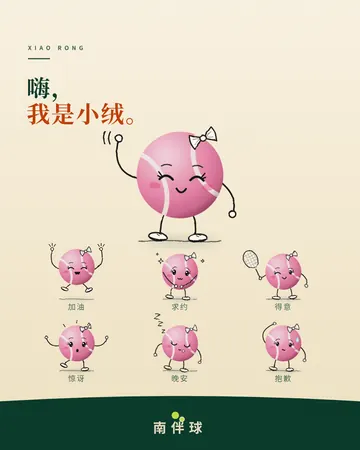
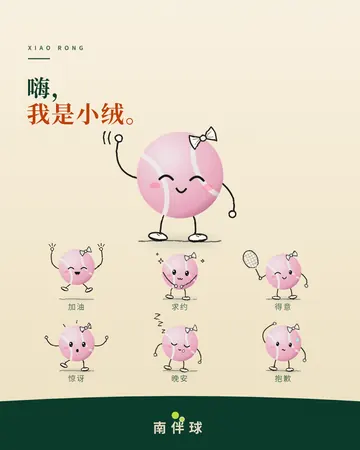
小毛小绒定稿：统一用 v3（figure3），去掉眉毛 / 睫毛 / 头顶毛，小绒嫩粉；78–81、84 重出
Claude-Session: https://claude.ai/code/session_01Vg2RCbjYppFezKGzdwzEXB

diff --git a/marketing/posters/p84_mao_rong_sunset.py b/marketing/posters/p84_mao_rong_sunset.py
@@ -1,17 +1,15 @@
 from lib import *
-from mao3 import pen, DOWN_L, DOWN_R, SH_L, SH_R, PEN, PAPER
-from mao4 import figure4, GROUND, K_ARM
+from mao3 import figure3, DOWN_L, DOWN_R
 
-
-def raw(sh, t):
-    return (sh[0] + (t[0] - sh[0]) / K_ARM, sh[1] + (t[1] - sh[1]) / K_ARM)
 
 META = dict(
     id=84, slug='mao-rong-sunset', title='打完球，看会儿天', lines=['打完球，', '看会儿天。'],
     style=['插画', '角色', '意境', '暖色'], tone='暖色', demo=False,
-    concept='36 号范式：角色放进有光的场景。傍晚的草坡上，小毛搭着小绒的肩，一起看日落；渐变天空 + 光芒 + 三层平涂山丘，脸极简',
+    concept='36 号范式：角色放进有光的场景。傍晚的草坡上，小毛和小绒牵着手一起看日落；渐变天空 + 光芒 + 三层平涂山丘，立体球 + 黑色细线手脚',
     use='傍晚场 / 打完球的小红书配图；小毛小绒首张场景海报',
 )
+
+
 
 
 def svg():
@@ -21,16 +19,15 @@ def svg():
                    for a in [math.pi + i * math.pi / 15 for i in range(16)])
     birds = ''.join(f'<path transform="translate({x} {y}) scale({s})" d="M-14 0 Q-7 -9 0 0 Q7 -9 14 0" fill="none" stroke="#0B3B2A" stroke-width="3" stroke-linecap="round"/>'
                     for x, y, s in [(830, 560, 1.1), (910, 520, .8), (190, 640, .8)])
-    rm, rr = 152, 140
-    gy = 1112
+    rm, rr = 150, 138
+    gy = 1100
     xm, xr = 372, 716
-    cym = gy - GROUND * rm
-    cyr = gy - GROUND * rr
-    mx, my = (xm + xr) / 2 + 4, gy - 128
+    cym, cyr = gy - 1.53 * rm, gy - 1.53 * rr
+    mx, my = (xm + xr) / 2, gy - 150
     hm = ((mx - 5 - xm) / rm, (my - cym) / rm)
     hr = ((mx + 5 - xr) / rr, (my - cyr) / rr)
-    a1 = figure4('m', xm, 0, rm, dict(L=DOWN_L, R=((1.3, .55), raw(SH_R, hm)), legs='stand'), 'happy', gy=gy, ball_style='soft')
-    a2 = figure4('r', xr, 0, rr, dict(L=((-1.3, .55), raw(SH_L, hr)), R=DOWN_R, legs='stand'), 'smile', char='rong', gy=gy, look=1, ball_style='soft')
+    a1 = figure3('m', xm, 0, rm, dict(L=DOWN_L, R=((1.32, .55), hm), legs='stand'), 'happy', gy=gy)
+    a2 = figure3('r', xr, 0, rr, dict(L=((-1.32, .55), hr), R=DOWN_R, legs='stand'), 'happy', gy=gy, char='rong', look=1)
     arm = ''
     body = f'''
 <defs>

diff --git a/marketing/posters/p80_mao_rong.py b/marketing/posters/p80_mao_rong.py
@@ -5,7 +5,7 @@ from mao3 import figure3, pen, hand3, PEN, DOWN_L, DOWN_R
 META = dict(
     id=80, slug='mao-rong', title='小毛和小绒，好朋友', lines=['小毛和小绒，', '好朋友。'],
     style=['插画', '角色', '拟人', '极简'], tone='浅色', demo=False,
-    concept='角色设定：男生小毛（头顶一小撮毛，嘴硬心软）和女生小绒（一颗粉色的球，头顶奶油白小蝴蝶结、睫毛，话多守时）。主图两人击掌，笔线标出各自的记号；下面三个合照姿势：搭肩 / 一起招手 / 晚安',
+    concept='角色设定：男生小毛（嘴硬心软）和女生小绒（一颗粉色的球，头顶奶油白小蝴蝶结，话多守时）。主图两人击掌，笔线标出各自的记号；下面三个合照姿势：搭肩 / 一起招手 / 晚安',
     use='客服 / 运营形象的双人设定；做“约球搭子”“带朋友一起来”的物料',
 )
 
@@ -28,8 +28,7 @@ def svg():
     sparks = ''.join(pen(f'M{tx + math.cos(math.radians(a))*30:.1f} {ty + math.sin(math.radians(a))*30:.1f} L{tx + math.cos(math.radians(a))*52:.1f} {ty + math.sin(math.radians(a))*52:.1f}', 3)
                      for a in (-150, -120, -90, -60, -30))
     # 笔线标注
-    note = (pen('M214 440 Q280 454 338 434', 2.6) + pen('M324 426 L339 434 L325 443', 2.6)
-            + pen('M876 458 Q846 470 806 482', 2.6) + pen('M820 470 L805 482 L822 488', 2.6))
+    note = (pen('M876 458 Q846 470 806 482', 2.6) + pen('M820 470 L805 482 L822 488', 2.6))
     # 三个合照
     r2, gy2 = 40, 1075
     duo = ''
@@ -65,7 +64,6 @@ def svg():
 {figure3('m', xm, 0, rm, mao_pose, 'happy', gy=gy)}
 {figure3('r', xr, 0, rr, rong_pose, 'happy', gy=gy, char='rong')}
 <g filter="url(#rough2)">{sparks}{note}</g>
-{label(96, 438, '一小撮毛', size=24)}
 {label(884, 452, '小蝴蝶结', size=24)}
 <text x="{xm}" y="{gy+60}" text-anchor="middle" font-family="{SERIF}" font-weight="900" font-size="38" fill="#0B3B2A">小毛</text>
 <text x="{xr}" y="{gy+60}" text-anchor="middle" font-family="{SERIF}" font-weight="900" font-size="38" fill="#0B3B2A">小绒</text>

diff --git a/marketing/mao3.py b/marketing/mao3.py
@@ -96,7 +96,7 @@ def ball_c(id, cx, cy, r, hi, mid, lo, seam='#FFF6F0', rim='#3b0d1f', rot=-22):
 </defs>'''
 
 
-PINK = dict(hi='#FFD3E0', mid='#F68FB4', lo='#C2517A')
+PINK = dict(hi='#FFEEF4', mid='#FFC6D8', lo='#F29DBA', seam='#FFFDF6', rim='#7a2a4a')
 
 
 def brows3(cx, cy, s, mood):
@@ -130,10 +130,7 @@ def star4(x, y, k, w):
 def face3(cx, cy, s, mood='smile', look=0, char='mao'):
     """脸 + 眉毛；小绒加睫毛、玫瑰色腮红；睡着了鼻子吹个泡泡。cx,cy 为脸中心。"""
     pink = char == 'rong'
-    out = face2(cx, cy, s, mood, look, ink=PEN, blush_c=('#E23F6B' if pink else '#E8643C'), blush_op=(.40 if pink else .35))
-    out += brows3(cx, cy, s, mood)
-    if pink:
-        out += lashes3(cx, cy, s)
+    out = face2(cx, cy, s, mood, look, ink=PEN, blush_c=('#FF7FA3' if pink else '#E8643C'), blush_op=(.50 if pink else .35))
     if mood == 'sleep':
         out += sleepbubble(cx, cy, s)
     return out
@@ -224,7 +221,7 @@ def figure3(id, cx, cy, r, pose='wave', mood='happy', tilt=None, lift=None, look
         hair = f'<g filter="url(#rough2)">{bow3(cx, cy, r, w)}</g>'
         body = ball_c(id, cx, cy, r, **PINK)
     else:
-        hair = f'<g filter="url(#rough2)">{tuft3(cx, cy, r, w)}</g>'
+        hair = ''
         body = ball(id, cx, cy, r)
     return (soft_sh + gnd + f'<g transform="rotate({tilt} {cx} {cy})">{limbs}{body}'
             f'{face3(*fc, s, mood, look, char)}{hair}{front}{marks}</g>')

diff --git a/marketing/posters/p81_rong_pen.py b/marketing/posters/p81_rong_pen.py
@@ -4,7 +4,7 @@ from mao3 import figure3
 META = dict(
     id=81, slug='rong-pen', title='嗨，我是小绒', lines=['嗨，', '我是小绒。'],
     style=['插画', '角色', '拟人', '极简'], tone='浅色', demo=False,
-    concept='女生小绒（和 78 的小毛是好朋友）：一颗粉色的球，头顶奶油白小蝴蝶结、睫毛，手脚同样是黑色手写细线；有动作的手在左边，右边留给蝴蝶结。主图招手，下面六个姿势：加油 / 求约 / 得意 / 惊讶 / 晚安 / 抱歉',
+    concept='女生小绒（和 78 的小毛是好朋友）：一颗粉色的球，头顶奶油白小蝴蝶结，手脚同样是黑色手写细线；有动作的手在左边，右边留给蝴蝶结。主图招手，下面六个姿势：加油 / 求约 / 得意 / 惊讶 / 晚安 / 抱歉',
     use='客服 / 运营形象的设定；头像、贴纸、小红书系列的底稿',
 )
 

diff --git a/marketing/posters/p79_mao_swing_pen.py b/marketing/posters/p79_mao_swing_pen.py
@@ -44,7 +44,7 @@ def svg():
 <g transform="rotate(7 560 596)">
   <g filter="url(#rough2)">{pen('M470 596 L440 930', 3)}{pen('M650 598 L680 930', 3)}</g>
   <ellipse cx="560" cy="1070" rx="160" ry="12" fill="#0B3B2A" opacity=".16" filter="url(#bl14)"/>
-  <g filter="url(#rough2)">{arms}</g>{ball('b', cx, cy, r)}{face3(cx + 8, cy + 6, r/118, 'happy', 1)}<g filter="url(#rough2)">{tuft3(cx, cy, r, 3.2)}</g>
+  <g filter="url(#rough2)">{arms}</g>{ball('b', cx, cy, r)}{face3(cx + 8, cy + 6, r/118, 'happy', 1)}
   <rect x="408" y="920" width="304" height="26" rx="10" fill="#B0582F"/><rect x="408" y="920" width="304" height="8" rx="4" fill="#D9854F"/>
   <g filter="url(#rough2)">{legs}</g>
 </g>

diff --git a/.claude/skills/nanbanqiu-poster/SKILL.md b/.claude/skills/nanbanqiu-poster/SKILL.md
@@ -65,7 +65,7 @@ def svg():
 - **字标圆点是荧光黄绿**：在黄绿 / 浅色大色块上看不见，底部加一条深色条再放 `wordmark`（50、58、67 踩过）。
 - **冷知识海报做法**（68–72）：先挖网球事实（只用真的，拿不准写「相传」），再用网球物件承载：球当钟面（70）、两球当 0（68）、球罐成分表（69）、球网剖面加标注线（71）、红土球印加粉笔圈（72）；画面里留 2–3 处可细看的小标注。
 - **批量出图节奏**：一次 heredoc 写 3–4 个 `pNN_*.py`，`build.py --only` 一次出，Read 逐张看，只改被发现的缺陷，再统一改张数（`sed` CLAUDE.md / 进度记录.md / 本文件）、`--check`、`site.mjs`、`site.js`、提交推送、`SendUserFile` 发图。
-- **角色「小毛」**：**用 v4（82–83）**，`marketing/mao4.py` 的 `figure4(id,cx,cy,r,pose,mood,char,gy=…)`：平面设计风纯色球（无高光、无渐变、无暗部；绒感 = 轮廓柔边（同色小半径模糊，**不是锯齿**）+ 极淡短绒纹 + 球缝几根细绒；不要外圈毛须、噪点颗粒、高光，用户都说不自然 / 疙瘩 / 像苹果；小毛头顶不要毛）、婴儿比例大眼睛（无睫毛）、嫩棉花糖粉 `PINK_P`、手脚更短；合照见 p82。**v3（78–81，`mao3.py`）球面太光滑像蛋、睫毛和比例被用户说奇怪，别再用**；以下姿势 / 笔触规则 v3、v4 通用。v3 说明：`figure3(id,cx,cy,r,pose,mood,char)`；两个角色：**小毛（男，`char='mao'`，头顶一小撮毛，嘴硬心软）/ 小绒（女，`char='rong'`，**一颗粉色的球**（`mao3.ball_c` + `PINK`）+ 奶油白小蝴蝶结 + 睫毛 + 玫瑰色腮红，话多守时；不要再画马尾、裙子）**，是好朋友；小绒用名字姿势时左右镜像（动作手在左，不和马尾打架）；合照用 dict 姿势 + `gy` 定地面线（见 p80）；：写实荧光球 + 33–36 同款脸（`mao2.face2`，眼睛用黑色）+ **只用黑色手写细线画手脚**（`pen` 双笔触 + `rough2` 抖动；手是小圆圈，脚是小椭圆球鞋，脚下一笔地面线）。**必须放浅色底**（奶油 `#FBF4E3→#F1E3C4`），黑线才看得见；浅色底字标圆点看不见，底部做深绿弧形条再放字标；标题用深绿 + `#C2410C`。pose=wave/cheer/plead/racket/wow/sorry/sleep；mood=smile/happy/cheer/wow/plead/wink/sweat/sleep；坐、抓绳等特殊姿势用 `pen/hand3/shoe3` 自己拼（见 p79）。v1（73–75 冷面脸）用户说「看起来不舒服、奇怪」，v2（76–77 黄绿粗手脚）用户说「球长手长脚奇怪」，**都别再用**。脸用 `face3`（face2 + 细眉毛 + 小绒睫毛 + 睡着的鼻泡）；细节：鞋带、求约的闪光星、歪头。口吻：陈述句、句号收尾、无感叹号。
+- **角色「小毛」（10-30 定稿，用户点名「这个小毛设计得很好」= 78 号画法）：一律用 `mao3.figure3(id,cx,cy,r,pose,mood,gy=…,char='mao'|'rong')`**：36 号同款立体球 + 黑色手写细线手脚 + `face2` 的脸；**不画眉毛、睫毛、头顶的毛**；小绒 = 嫩粉立体球（`PINK`）+ 一个小蝴蝶结。场景海报（84）和设定图（78–81）都用它。**下面 v4（`mao4.py`，82–83）已弃用，仅留作记录**：v4，`marketing/mao4.py` 的 `figure4(id,cx,cy,r,pose,mood,char,gy=…)`：平面设计风纯色球（无高光、无渐变、无暗部；绒感 = 轮廓柔边（同色小半径模糊，**不是锯齿**）+ 极淡短绒纹 + 球缝几根细绒；不要外圈毛须、噪点颗粒、高光，用户都说不自然 / 疙瘩 / 像苹果；小毛头顶不要毛）、婴儿比例大眼睛（无睫毛）、嫩棉花糖粉 `PINK_P`、手脚更短；合照见 p82。**v3（78–81，`mao3.py`）球面太光滑像蛋、睫毛和比例被用户说奇怪，别再用**；以下姿势 / 笔触规则 v3、v4 通用。v3 说明：`figure3(id,cx,cy,r,pose,mood,char)`；两个角色：**小毛（男，`char='mao'`，头顶一小撮毛，嘴硬心软）/ 小绒（女，`char='rong'`，**一颗粉色的球**（`mao3.ball_c` + `PINK`）+ 奶油白小蝴蝶结 + 睫毛 + 玫瑰色腮红，话多守时；不要再画马尾、裙子）**，是好朋友；小绒用名字姿势时左右镜像（动作手在左，不和马尾打架）；合照用 dict 姿势 + `gy` 定地面线（见 p80）；：写实荧光球 + 33–36 同款脸（`mao2.face2`，眼睛用黑色）+ **只用黑色手写细线画手脚**（`pen` 双笔触 + `rough2` 抖动；手是小圆圈，脚是小椭圆球鞋，脚下一笔地面线）。**必须放浅色底**（奶油 `#FBF4E3→#F1E3C4`），黑线才看得见；浅色底字标圆点看不见，底部做深绿弧形条再放字标；标题用深绿 + `#C2410C`。pose=wave/cheer/plead/racket/wow/sorry/sleep；mood=smile/happy/cheer/wow/plead/wink/sweat/sleep；坐、抓绳等特殊姿势用 `pen/hand3/shoe3` 自己拼（见 p79）。v1（73–75 冷面脸）用户说「看起来不舒服、奇怪」，v2（76–77 黄绿粗手脚）用户说「球长手长脚奇怪」，**都别再用**。脸用 `face3`（face2 + 细眉毛 + 小绒睫毛 + 睡着的鼻泡）；细节：鞋带、求约的闪光星、歪头。口吻：陈述句、句号收尾、无感叹号。
 - 常量 `W H SERIF SANS C`，以及 `math` `random` 已导入。
 
 ## 角色 / 吉祥物设计方法（可复用，10-29 小毛小绒磨了 6 版才定）

diff --git a/.claude/skills/nanbanqiu-poster/品味手册.md b/.claude/skills/nanbanqiu-poster/品味手册.md
@@ -96,3 +96,4 @@
 - 10-29 高光 / 渐变「像苹果」→ 要平面设计风：纯色球身，无高光无渐变无暗部；绒感只靠轮廓同色细毛边 + 极淡短绒纹 + 球缝几根细绒。人没有高光，球也不要有。
 - 10-29 用户点评 36 号早安小球「无论背景还是人物都非常好」→ 角色放进有光的场景，背景分层、脸极简、球质感柔；详见 SKILL.md「36 号范式」。
 - 10-29 84 号首版角色平涂被说「没有 36 号立体」→ 场景海报的角色球身用 ball_style='soft'（36 号画法）。
+- 10-30 用户发 78 号图：「这个小毛设计得很好」→ 以 figure3（立体球 + 黑细线手脚 + face2 脸）为标准，去掉眉毛 / 睫毛 / 头顶毛；小绒只换成嫩粉球 + 小蝴蝶结。v4（mao4）弃用。
